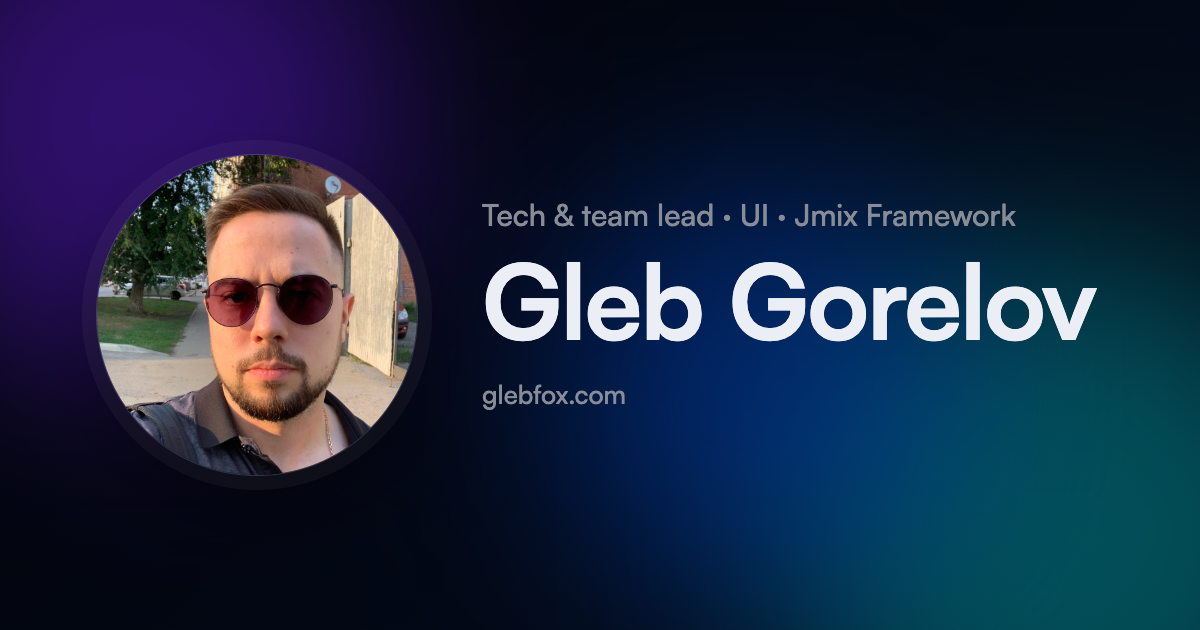
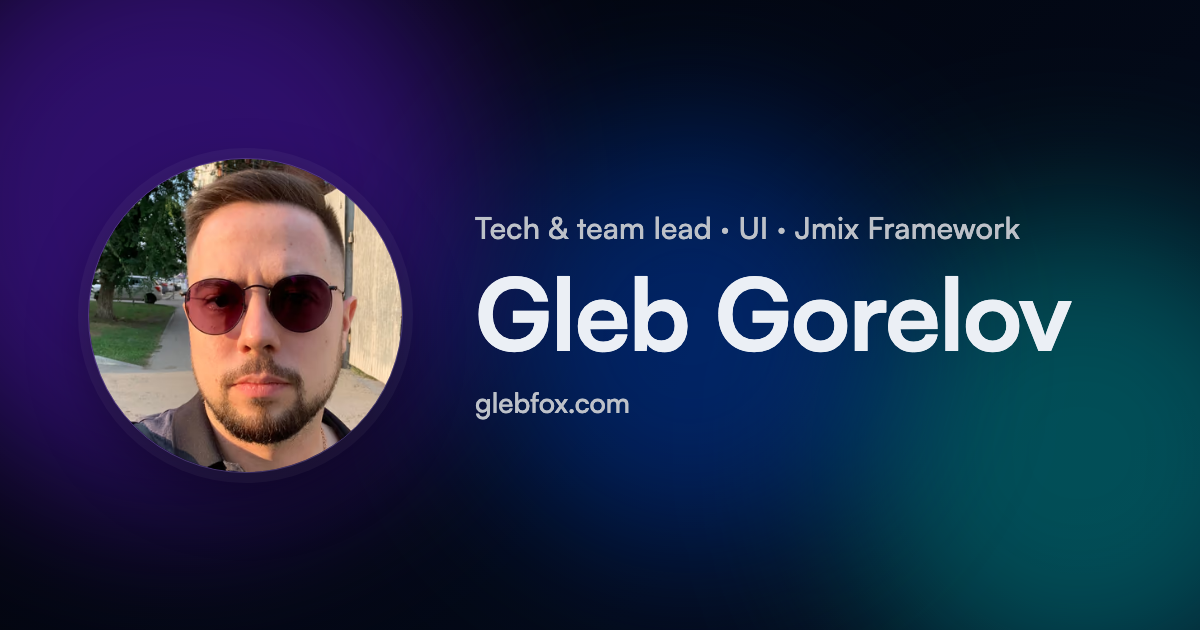
Widen contrast margins, oklab gradient, regenerate the og card

Changed region(s): [[0.0, 0.1206, 0.925, 0.8746], [0.5858, 0.6937, 0.8017, 1.0]]

diff --git a/index.html b/index.html
@@ -73,7 +73,7 @@
          the whole orb field — its luminance extremes are reachable, not hypothetical.
          --muted is therefore tuned against the worst point of that field, not the bare
          gradient: light against the field's darkest patch, dark against its lightest. */
-      --muted:     light-dark(oklch(40% 0.01 260),  oklch(78% 0.01 260));
+      --muted:     light-dark(oklch(38% 0.01 260),  oklch(81% 0.01 260));
       --btn-bg:    light-dark(oklch(0% 0 0 / 0.07), oklch(100% 0 0 / 0.10));
       --btn-hover: light-dark(oklch(0% 0 0 / 0.13), oklch(100% 0 0 / 0.18));
       /* The orb alpha lives in the colour, not in .orb { opacity }, so it can differ per
@@ -87,8 +87,8 @@
 
       /* Single accent: links, primary button, section underline, "What I do" icons.
          Darker in light theme so it clears WCAG AA — incl. as text on the .btn-primary
-         12%-accent tinted background (worst case ~4.6:1), not just the bare gradient. */
-      --accent:    light-dark(oklch(41% 0.18 290),  oklch(81% 0.12 290));
+         12%-accent tinted background, not just the bare gradient. */
+      --accent:    light-dark(oklch(38% 0.18 290),  oklch(81% 0.12 290));
     }
 
     *, *::before, *::after {
@@ -108,7 +108,9 @@
       /* Normalize the fallback's x-height to Satoshi's while it swaps in, so the
          font-display: swap exchange doesn't reflow text (CLS) — esp. the LCP .name. */
       font-size-adjust: from-font;
-      background: linear-gradient(135deg, var(--bg-from), var(--bg-to));
+      /* Interpolate in oklab: both stops are oklch, and the sRGB default ramps through a
+         muddier midpoint between them. */
+      background: linear-gradient(in oklab 135deg, var(--bg-from), var(--bg-to));
       color: var(--text);
       transition: color 0.3s;
     }
@@ -285,7 +287,7 @@
       isolation: isolate;
       border: 1px solid light-dark(oklch(0% 0 0 / 0.12), oklch(100% 0 0 / 0.18));
       box-shadow: 0 0 0 10px light-dark(oklch(0% 0 0 / 0.04), oklch(100% 0 0 / 0.04)),
-                  0 24px 60px oklch(0% 0 0 / 0.30);
+                  0 24px 60px light-dark(oklch(0% 0 0 / 0.18), oklch(0% 0 0 / 0.45));
     }
 
     .photo {

diff --git a/CLAUDE.md b/CLAUDE.md
@@ -43,7 +43,7 @@ Single-page site. Zero external dependencies — pure HTML/CSS/JS only.
 - `fonts/Satoshi-Variable.woff2` — self-hosted Satoshi (variable, weights 300–900); the page's only web font, used for the name and all text (sourced from Fontshare)
 - `images/photo.{avif,webp,jpg}` — 448² hero avatar served via `<picture>` (AVIF ~27K → WebP ~29K → JPEG ~75K fallback), generated with `npx sharp` at 448² from `images/photo.png` (1000² source, also used for the og card; the only image tools on this machine are `sips` and `cjpeg` — neither writes AVIF or WebP, so any re-encode needs `sharp` and must regenerate all three formats together or the `<picture>` will serve different crops per browser). `.hero picture` is the sizing box (border-radius + ring + `overflow: hidden`); `.photo` fills it and is zoomed with `transform: scale()` to crop past the street background, so the crop costs no bytes and needs no re-encode
 - `images/favicon/` — two adaptive SVG favicons (`favicon-light.svg` / `favicon-dark.svg`); the `<link rel="icon">` tags pick one via `prefers-color-scheme` (replaced the old PNG set)
-- `images/og-image.png` — 1200×630 social-preview card (Open Graph / Twitter Card) referenced from `<head>`; a static dark render: avatar on the left, the name in Satoshi on the right
+- `images/og-image.png` — 1200×630 social-preview card (Open Graph / Twitter Card) referenced from `<head>`; a static dark render: avatar on the left, and on the right the eyebrow line, the name in Satoshi, then `glebfox.com`
 
 **Why inline CSS:** no separate CSS file means no cache-busting problem on redeploy — styles are always fresh with the HTML.
 
@@ -61,6 +61,8 @@ Single-page site. Zero external dependencies — pure HTML/CSS/JS only.
 
 **Contrast (WCAG) — measure against the orb layer, not the gradient:** `.orbs` is `position: fixed`, so scrolling slides every text block across the whole orb field. Any text can end up over any part of it, which makes the field's luminance extremes genuinely reachable rather than a hypothetical worst case. Checking text against the bare `--bg-from`/`--bg-to` gradient therefore passes colors that fail on screen — `--muted` measured 5.3:1 against the bare gradient and 2.6:1 over the field.
 
+Sample the field across the **whole drift cycle and several viewports**, not one frame at one size: the orbs are `vmax`-sized and animated, so a single snapshot can miss the brightest moment. Freeze them with `animation-play-state: paused` and step `animation-delay` from `0s` to `-28s` (the longest period), taking min/max over every frame. In practice the blur keeps overlapping orbs from stacking to their full alpha, so a model that composites two orbs at full strength over a gradient stop overstates the damage — measure, don't model.
+
 **How to measure it:** reconstruct the field with the browser's own rasterizer instead of modelling the blur. In the page, paint `body`'s gradient into a `<canvas>`, then for each `.orb` read its `getBoundingClientRect()` and computed `background-color` / `filter` and redraw it with `ctx.filter = 'blur(80px)'`; `getImageData` over the result gives the true min/max luminance, which is what each text color must clear. Two traps make a hand-rolled version silently wrong:
 
 - `getComputedStyle(el).color` returns an **`oklch(...)`/`oklab(...)` string**, not `rgb()`. Parsing the first three numbers yields `0.95, 0.01, 260` read as RGB — plausible-looking garbage. Convert by painting the color into a 1×1 canvas and reading the pixel back.
@@ -70,6 +72,14 @@ Single-page site. Zero external dependencies — pure HTML/CSS/JS only.
 
 **Tinted surfaces:** for text on a tint (e.g. `.btn-primary`, whose text is `--accent` over a `color-mix(--accent 12%, transparent)` fill), composite the tint over the field first and check the result explicitly — it runs well below the bare-backdrop figure.
 
-**Social preview card:** `images/og-image.png` is a static, hand-generated render (dark aurora + the avatar on the left + the name in Satoshi), referenced by the Open Graph / Twitter tags in `<head>`. It is intentionally non-adaptive — a link scraper has no color-scheme to honor — and its `og:image`/`twitter:image` URLs are absolute, since scrapers fetch them server-side. No build step produces it; if the background palette or the wordmark changes, regenerate the PNG so the card stays in sync with the page.
+**Social preview card:** `images/og-image.png` is a static, hand-generated render (dark aurora + the avatar on the left + eyebrow / name / domain on the right), referenced by the Open Graph / Twitter tags in `<head>`. It is intentionally non-adaptive — a link scraper has no color-scheme to honor — and its `og:image`/`twitter:image` URLs are absolute, since scrapers fetch them server-side. No build step produces it; if the background palette or the wordmark changes, regenerate the PNG so the card stays in sync with the page.
 
-**Regenerating `og-image.png`:** mirror the page's dark values + orbs/gradient + Satoshi (with `ss01`) + the avatar into a throwaway 1200×630 HTML mock, render it in a headless browser (served over HTTP, not `file://`, so `@font-face` + the photo load), wait for `document.fonts.ready`, then screenshot to PNG — commit only the PNG and discard the mock and any render artifacts.
+**Regenerating `og-image.png`:** mirror the page's dark values + orbs/gradient + Satoshi (with `ss01`) + the avatar **with the same `transform: scale()` crop the hero uses** into a throwaway 1200×630 HTML mock at the repo root (so `fonts/` and `images/` resolve), and keep the existing composition — eyebrow, name, domain. Render it over HTTP, not `file://`, or `@font-face` and the photo won't load. There is no image CLI here, but Chrome is installed and renders it headlessly:
+
+```
+"/Applications/Google Chrome.app/Contents/MacOS/Google Chrome" --headless=new --disable-gpu \
+  --hide-scrollbars --force-device-scale-factor=1 --window-size=1200,630 \
+  --virtual-time-budget=8000 --screenshot=out.png http://127.0.0.1:PORT/og-mock.html
+```
+
+`--virtual-time-budget` is what waits for the font and photo; `--force-device-scale-factor=1` keeps it exactly 1200×630. Commit only the PNG and delete the mock. The card's weight is irrelevant to the page budget — scrapers fetch it, the page never does. Note the hero crop is part of the card now: change `.photo`'s zoom and the card goes stale.
